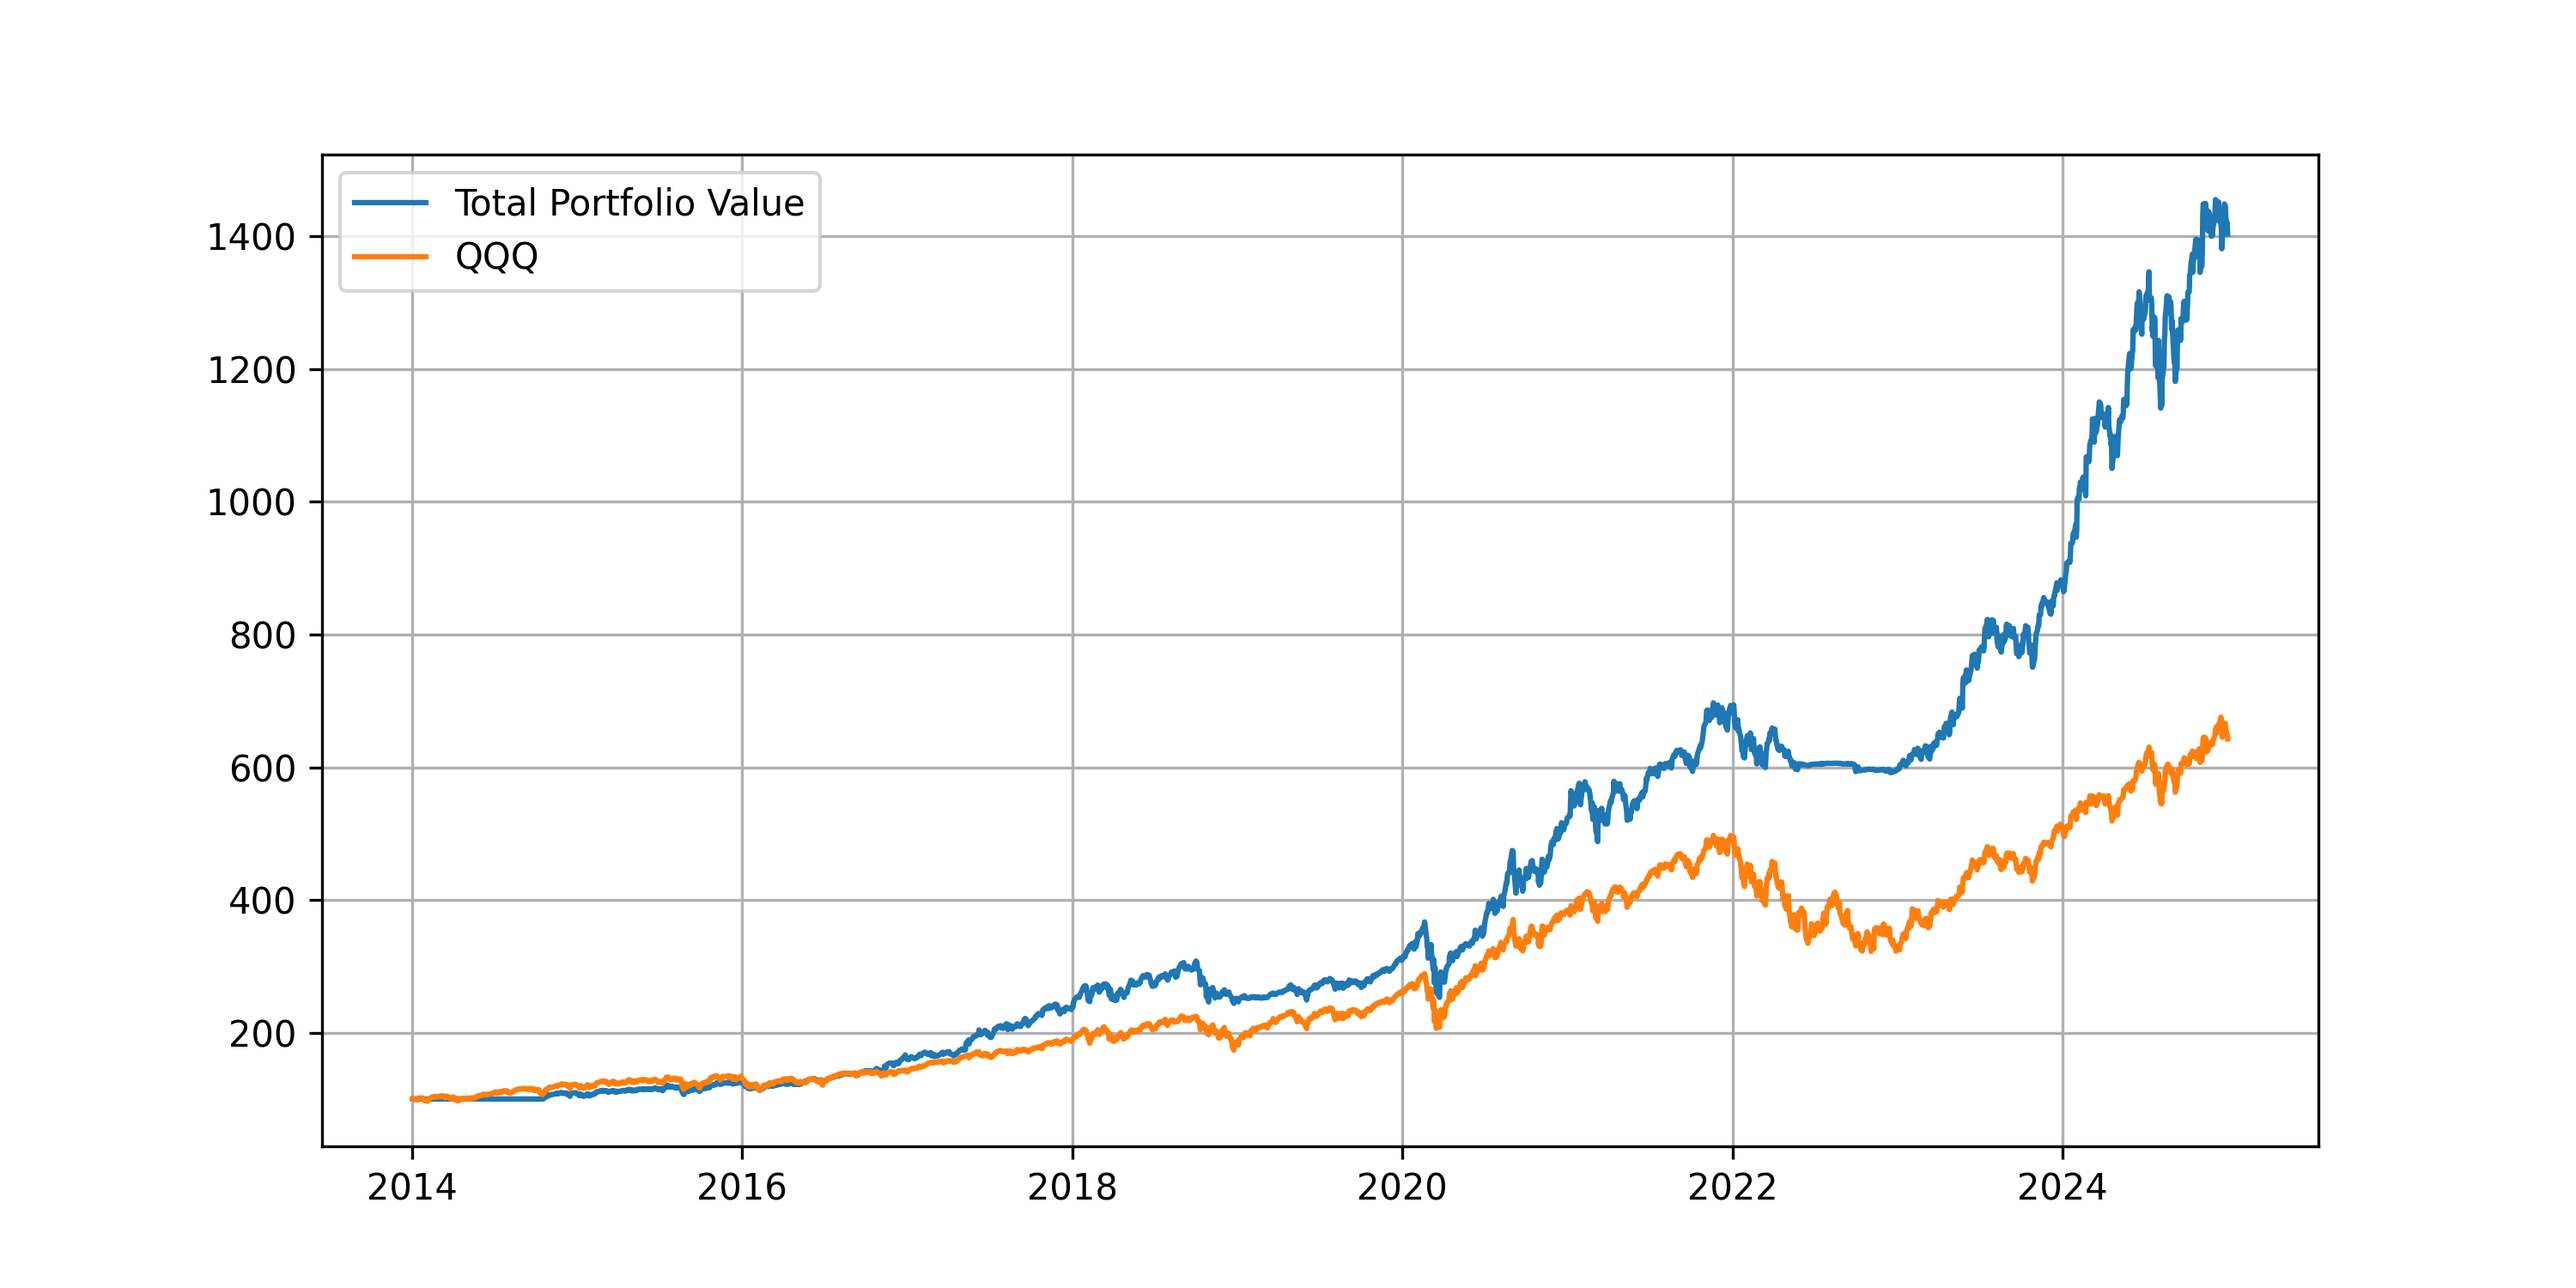
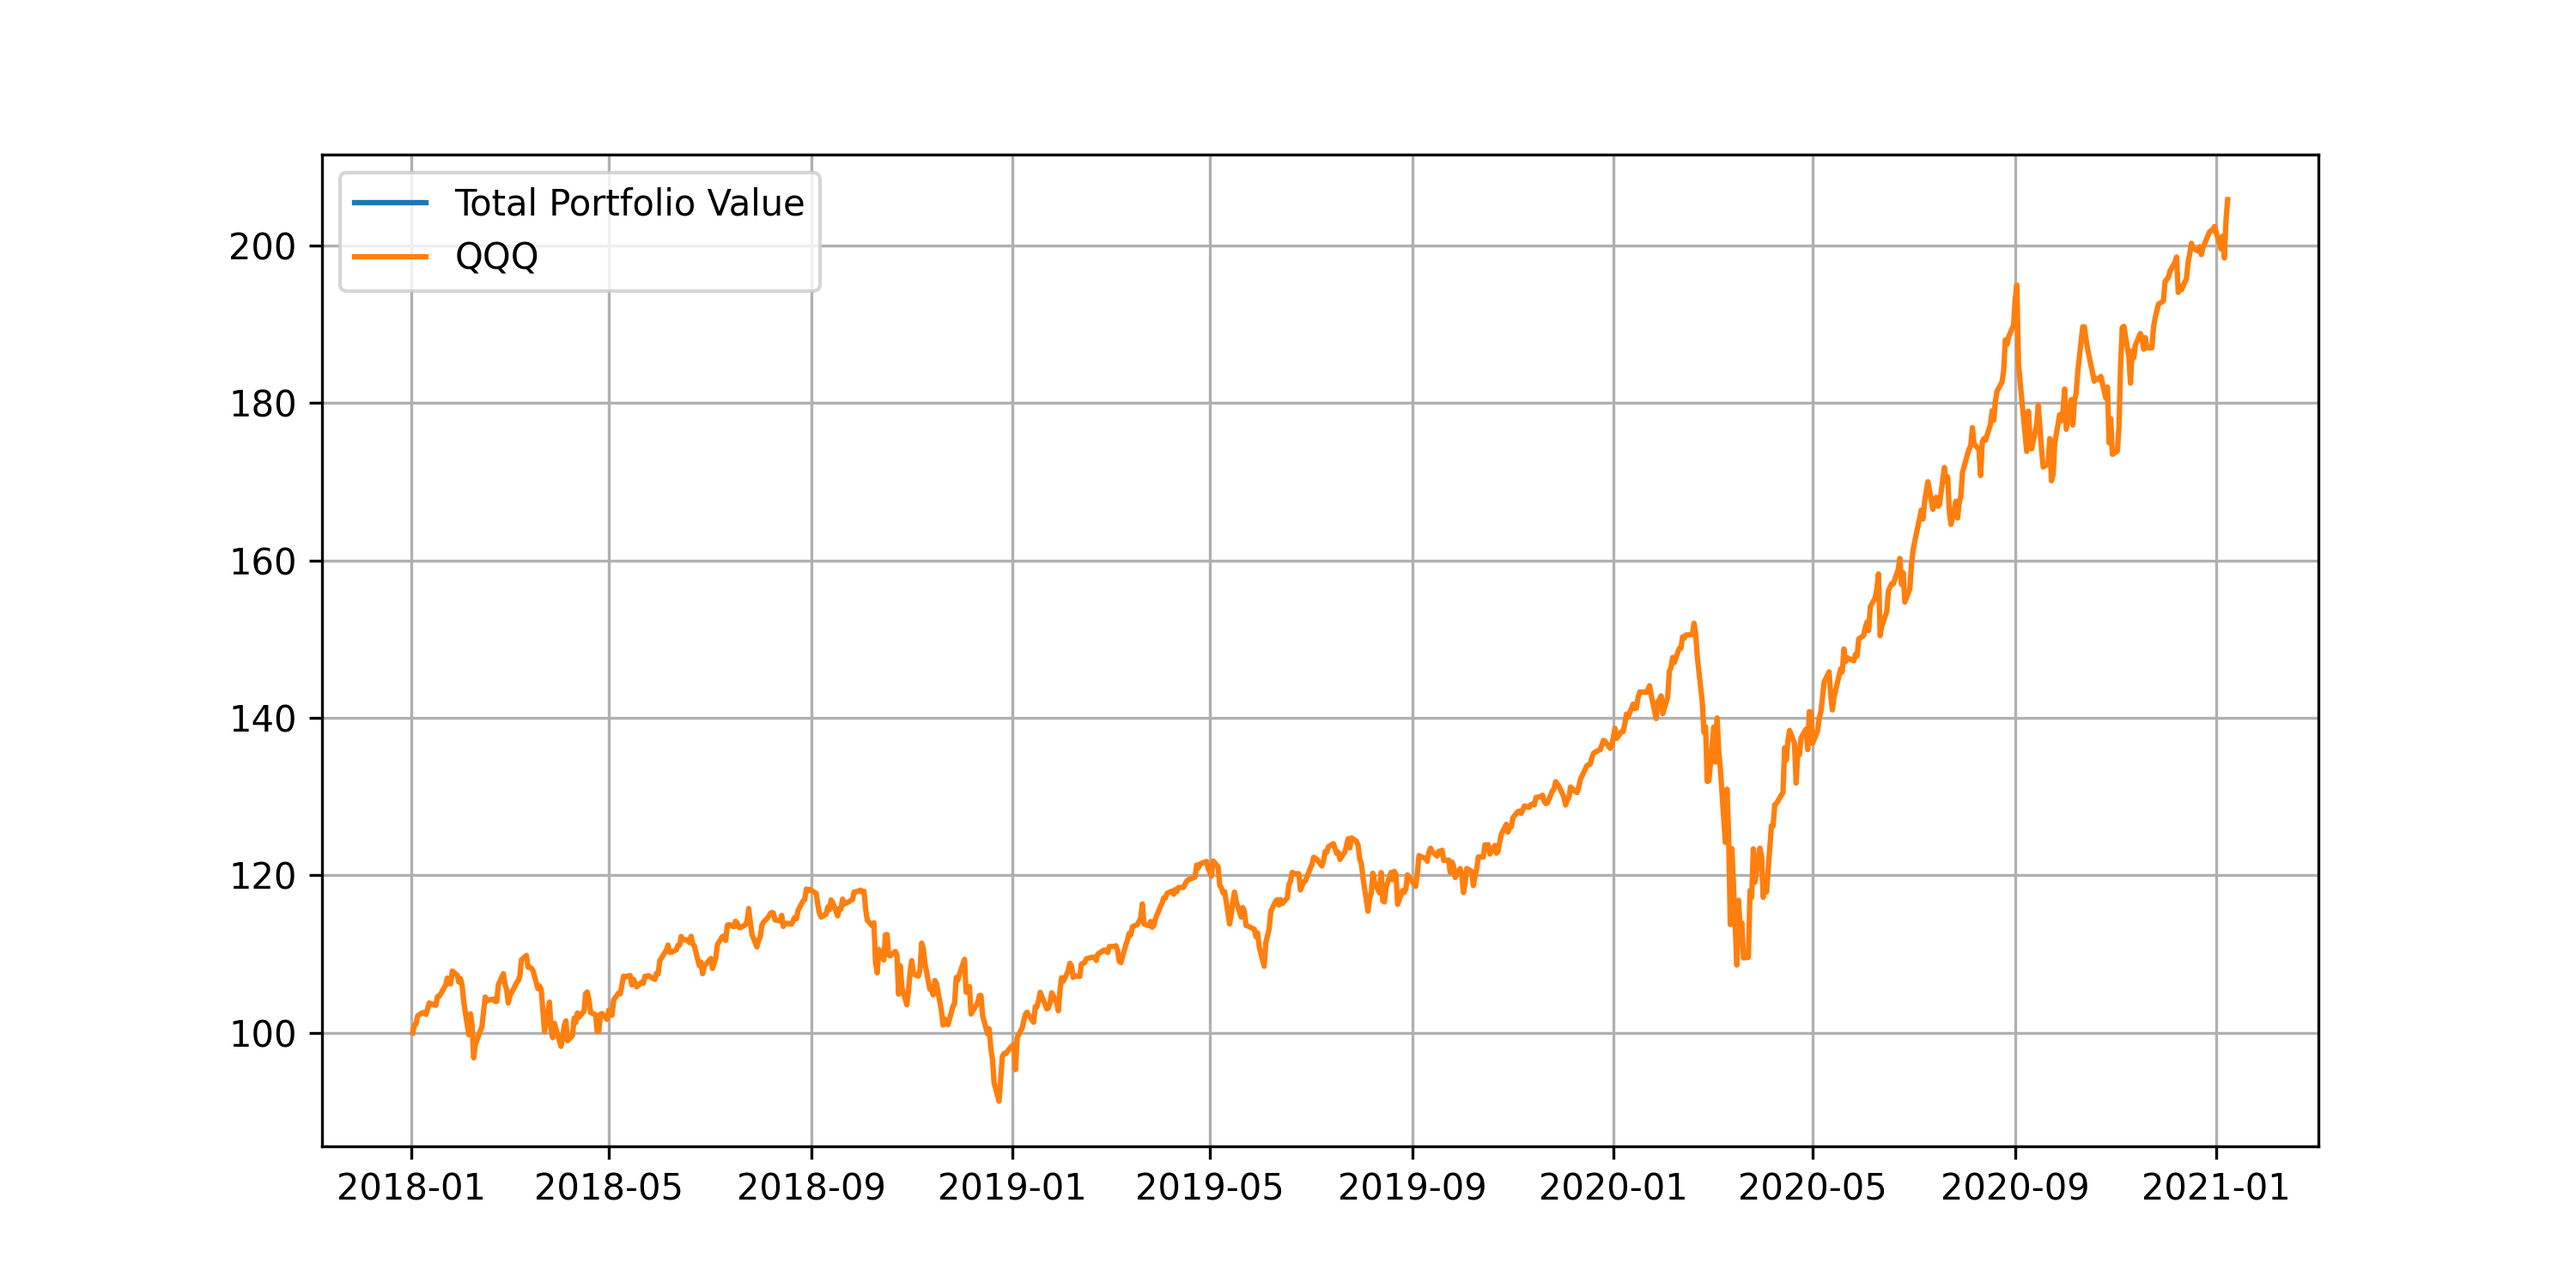
finrl baseline ready

diff --git a/src/test_finrl/main.py b/src/test_finrl/main.py
@@ -32,7 +32,7 @@ def build_parser():
     parser.add_argument(
         "--mode",
         dest="mode",
-        help="start mode, train, download_data" " backtest",
+        help="train, download_data, test, trade",
         metavar="MODE",
         default="train",
     )
@@ -69,12 +69,15 @@ def main():
             data_source="yahoofinance",
             time_interval="1D",
             technical_indicator_list=INDICATORS,
-            drl_lib="elegantrl",
+            drl_lib="stable_baselines3",
             env=env,
             model_name="ppo",
             cwd="./test_ppo",
             erl_params=ERL_PARAMS,
             break_step=1e5,
+            if_vix=False,
+            data_source_file=os.path.join(current_directory,DATA_SAVE_DIR, "dow_30_data_1D.csv"),
+            tensorboard_log_dir=os.path.join(current_directory,TENSORBOARD_LOG_DIR),
             kwargs=kwargs,
         )
     elif options.mode == "test":
@@ -85,19 +88,29 @@ def main():
         kwargs = {}  # in current meta, with respect yahoofinance, kwargs is {}. For other data sources, such as joinquant, kwargs is not empty
 
         account_value_erl = test(
-            start_date=TEST_START_DATE,
-            end_date=TEST_END_DATE,
+            start_date="2018-01-01",
+            end_date="2021-01-10",
             ticker_list=DOW_30_TICKER,
             data_source="yahoofinance",
             time_interval="1D",
             technical_indicator_list=INDICATORS,
-            drl_lib="elegantrl",
+            drl_lib="stable_baselines3",
             env=env,
             model_name="ppo",
             cwd="./test_ppo",
             net_dimension=512,
+            if_vix=False,
+            data_source_file=os.path.join(current_directory,DATA_SAVE_DIR, "dow_30_data_1D.csv"),
             kwargs=kwargs,
         )
+        
+        # Plot the account value change curve
+        import matplotlib.pyplot as plt
+        plt.plot(account_value_erl)
+        plt.xlabel('Time Step')
+        plt.ylabel('Episode Total Asset')
+        plt.savefig(os.path.join(current_directory,RESULTS_DIR, f'account_value_erl_ppo.png'))
+        
     elif options.mode == "trade":
         from finrl import trade
         env = StockTradingEnv
@@ -109,7 +122,7 @@ def main():
             data_source="yahoofinance",
             time_interval="1D",
             technical_indicator_list=INDICATORS,
-            drl_lib="elegantrl",
+            drl_lib="stable_baselines3",
             env=env,
             model_name="ppo",
             API_KEY=ALPACA_API_KEY,
@@ -120,18 +133,20 @@ def main():
             kwargs=kwargs,
         )
     elif options.mode == "download_data":
+        time_interval = "1D"
         from finrl.meta.data_processor import DataProcessor
         dp = DataProcessor(data_source="yahoofinance")
         data = dp.download_data(
             ticker_list=DOW_30_TICKER,
             start_date=TRAIN_START_DATE,
             end_date=TEST_END_DATE,
-            time_interval="1D"
+            time_interval=time_interval
         )
-        data = dp.clean_data(data)
         data = dp.add_technical_indicator(data, INDICATORS)
+        data = dp.add_vix(data)
+        data = dp.add_turbulence(data)
         # Save data
-        data.to_csv(os.path.join(current_directory,DATA_SAVE_DIR, "dow_30_data.csv"))
+        data.to_csv(os.path.join(current_directory,DATA_SAVE_DIR, f"dow_30_data_{time_interval}.csv"))
     else:
         raise ValueError("Wrong mode.")
 

diff --git a/src/main.py b/src/main.py
@@ -1,3 +1,4 @@
+import os
 import pandas as pd
 import pandas_ta as ta
 import yfinance as yf
@@ -8,11 +9,16 @@ import numpy as np
 from rule_based_strategy import SMAStrategy
 from utils import *
 
+from finrl.config_tickers import DOW_30_TICKER
+
+current_directory = os.path.dirname(os.path.abspath(__file__))
+
+
 # import stock data
-start_date = "2014-01-01"
-end_date = "2025-01-01"
+start_date = "2018-01-01"
+end_date = "2021-01-10"
 interval = "1d"
-tickers = ["NVDA", "AAPL", "MSFT", "GOOGL", "AMZN", "TSLA", "META", "JPM", "V", "UNH"]
+tickers = DOW_30_TICKER #["NVDA", "AAPL", "MSFT", "GOOGL", "AMZN", "TSLA", "META", "JPM", "V", "UNH"]
 df = yf.download(tickers, start=start_date, end=end_date, interval=interval, auto_adjust=True)
 df_baseline = yf.download("QQQ", start=start_date, end=end_date, interval=interval, auto_adjust=True)
 
@@ -31,7 +37,7 @@ df = pd.concat([df, rsi14], axis=1)
 
 
 # initialize strategy
-TOTAL_ASSET = 1000000
+TOTAL_ASSET = 1e6
 BUYIN_PORTION = 0.2 # e.g. every buy-in uses 20% of current cash
 portfolio = Portfolio(tickers, TOTAL_ASSET)
 trade_history = []
@@ -81,17 +87,18 @@ for tick in df.index:
     
     actions = strategy.trade(tick)
 
-print(portfolio.trade_history['NVDA'])
+print(portfolio.trade_history['NVDA'] if 'NVDA' in portfolio.trade_history else "No trades for NVDA")
 
 # plot stock price
-fig, ax = plt.subplots(figsize=(10, 5), dpi=300)
-ax.plot(df.index, df['Close', 'NVDA'], label='Closing Price')
-ax.plot(df.index, df['SMA_50', 'NVDA'], label='SMA 50')
-ax.plot(df.index, df['SMA_200', 'NVDA'], label='SMA 200')
-ax.plot(df.index, df['RSI_14', 'NVDA'], label='RSI 14')
-ax.legend()
-ax.grid()
-plt.savefig('../figures/nvda_closing_prices.png')
+if 'NVDA' in df['Close'].columns:
+    fig, ax = plt.subplots(figsize=(10, 5), dpi=300)
+    ax.plot(df.index, df['Close', 'NVDA'], label='Closing Price')
+    ax.plot(df.index, df['SMA_50', 'NVDA'], label='SMA 50')
+    ax.plot(df.index, df['SMA_200', 'NVDA'], label='SMA 200')
+    ax.plot(df.index, df['RSI_14', 'NVDA'], label='RSI 14')
+    ax.legend()
+    ax.grid()
+    plt.savefig('../figures/nvda_closing_prices.png')
 
 # plot total portfolio value over time, compared with QQQ
 # normalize total values as percentages
@@ -105,4 +112,4 @@ ax.plot(portfolio.total_value_history.index, portfolio_total, label='Total Portf
 ax.plot(df.index, baseline_total, label='QQQ')
 ax.legend()
 ax.grid()
-plt.savefig('../figures/portfolio_total_value.png')
+plt.savefig(os.path.join(current_directory, '../figures/portfolio_total_value.png'))
